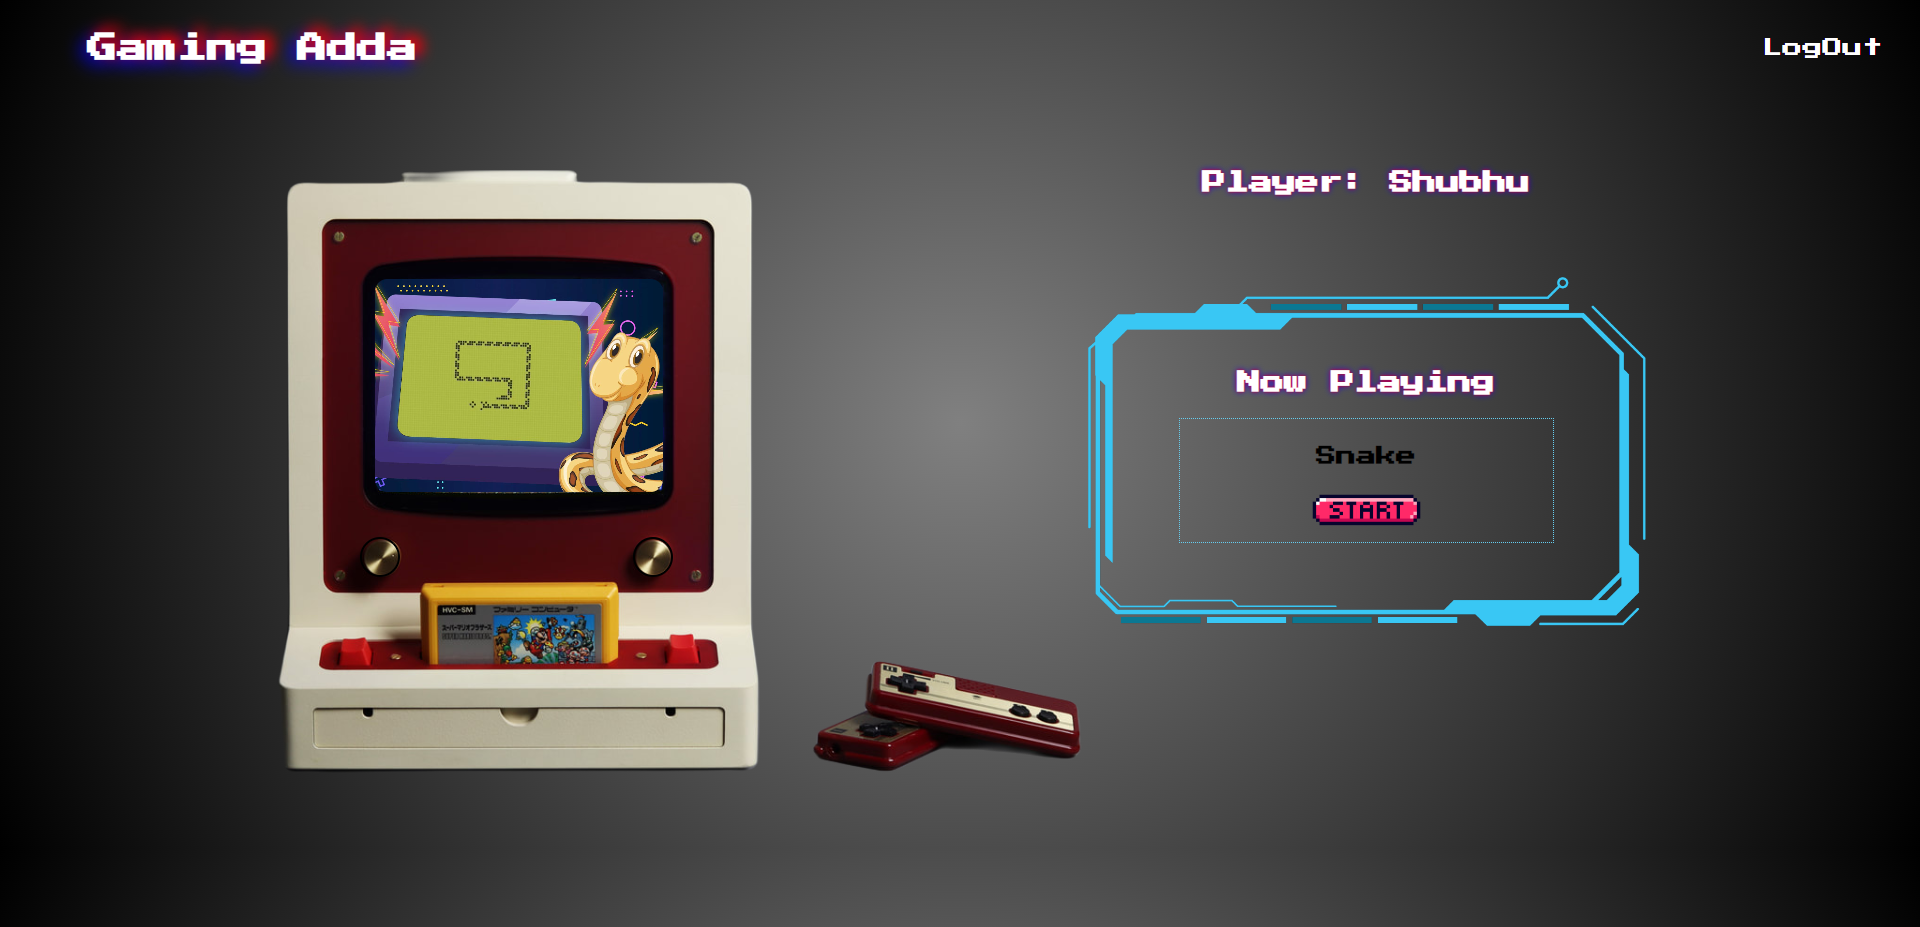
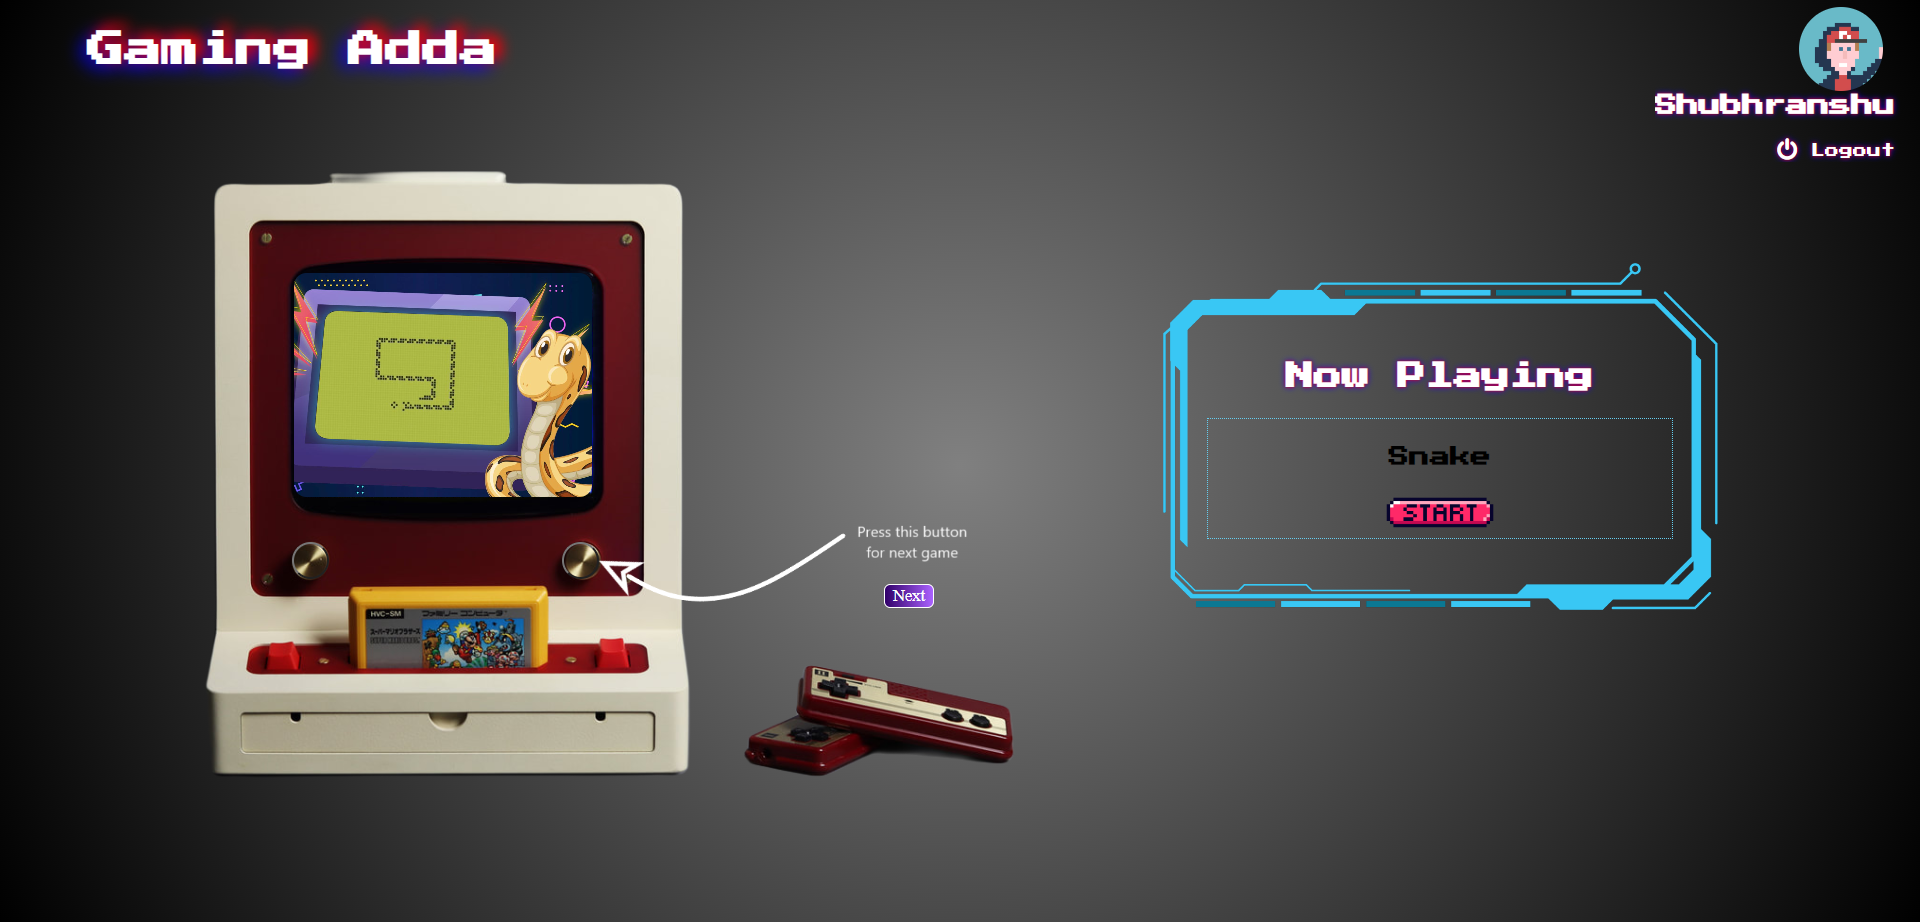
profile update2

diff --git a/index.html b/index.html
@@ -32,17 +32,13 @@
     <div id="wrapper" class="hidden">
       <nav class="navbar">
         <h2 id="logo">Gaming Adda</h2>
-        <i
-          id="userProfile"
-          class="fa fa-user-circle-o"
-          style="font-size: 5vmin; color: palegoldenrod"
-        ></i>
+        <img id="userProfile" src="./img/profile2.png" alt="profile" />
         <div id="userBox">
           <h3 id="playerName"></h3>
           <div id="log">
             <a id="logout"
-              ><i class="fa fa-power-off" style="font-size: 2.5vmin"></i
-              >Logout</a
+              ><i class="fa fa-power-off" style="font-size: 2.5vmin"></i>
+              Logout</a
             >
           </div>
         </div>

diff --git a/homeStyle.css b/homeStyle.css
@@ -108,6 +108,8 @@ body {
 }
 #userProfile {
   cursor: pointer;
+  width: 9vmin;
+  border-radius: 35px;
 }
 #userBox {
   position: absolute;
@@ -126,8 +128,6 @@ body {
   transition: transform 1.8s ease-out;
 }
 #log {
-  display: flex;
-  align-items: center;
   transform: translateX(150vw);
   transition: transform 2s ease-in-out 0.1s;
 }
